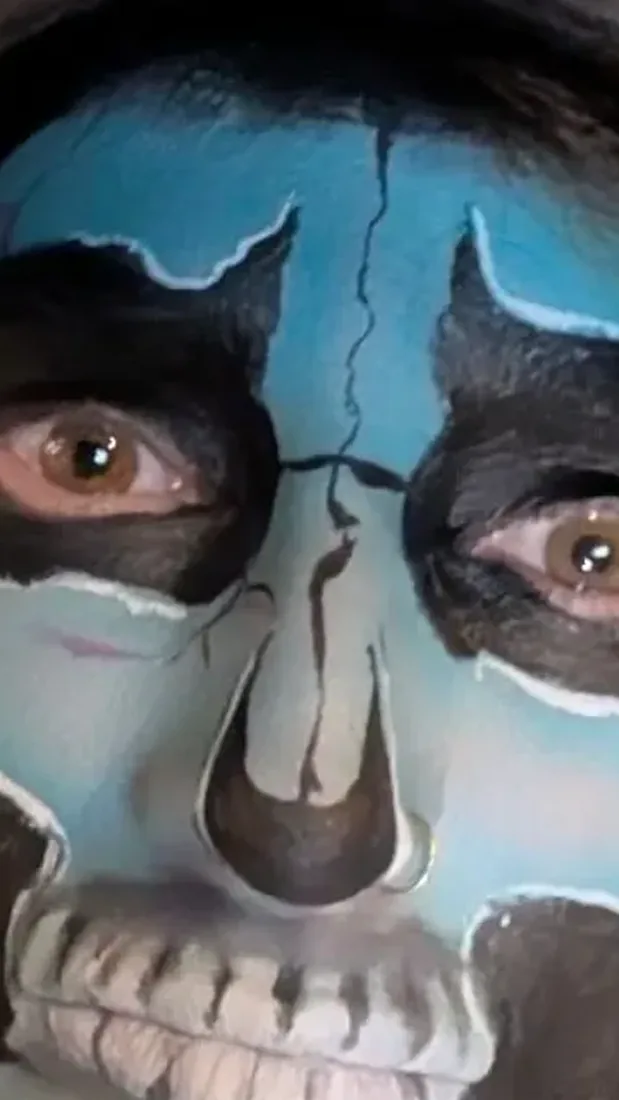
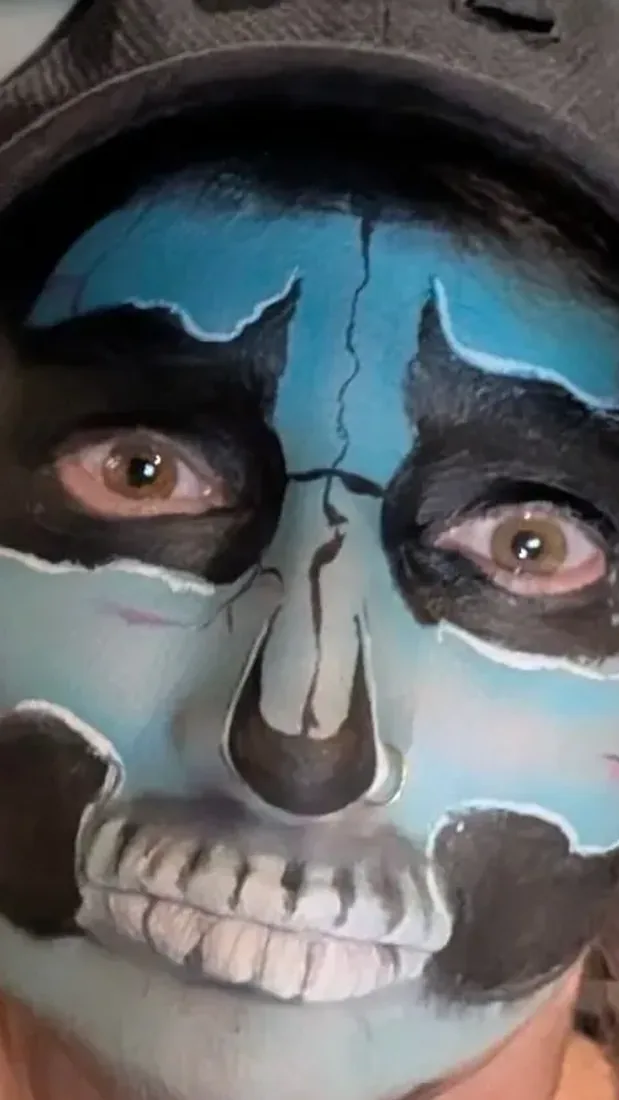
Halloween page: grown-up skull zoomed out a bit
Claude-Session: https://claude.ai/code/session_012bdPLZhqYkLUzfzYFPc2Bh

diff --git a/tools/build_halloween_crops.py b/tools/build_halloween_crops.py
@@ -42,11 +42,13 @@ for k, p, cx, cy, f in CARD:
 print('card crops done')
 
 # heavily zoomed crops for the photo line at the top (3:4), the face fills the frame
+ZOOM_OUT = {'adult-skull': 1.3}  # show a bit more of the face
 ZOOM_CY = {'devil-girl': .47, 'werewolf': .45, 'pumpkin-big-sister': .20, 'skull-boy': .50, 'adult-skull': .47}
 for k, p, cx, cy, f in C:
     cy = ZOOM_CY.get(k, cy)
     im = ImageOps.exif_transpose(Image.open(p)).convert('RGB'); W, H = im.size
-    ch = f * .44 * W * 5 / 3; cw = ch * 9 / 16
+    ch = f * .44 * ZOOM_OUT.get(k, 1) * W * 5 / 3; cw = ch * 9 / 16
+    if ch > H: ch = H; cw = ch * 9 / 16
     x0 = min(max(cx * W - cw / 2, 0), W - cw); y0 = min(max(cy * H - ch * .47, 0), H - ch)
     im.crop((round(x0), round(y0), round(x0 + cw), round(y0 + ch))).resize((619, 1100), Image.LANCZOS).save(f"hw/halloween-{k}-zoom.webp", 'WEBP', quality=82, method=6)
 print('zoom crops done')
